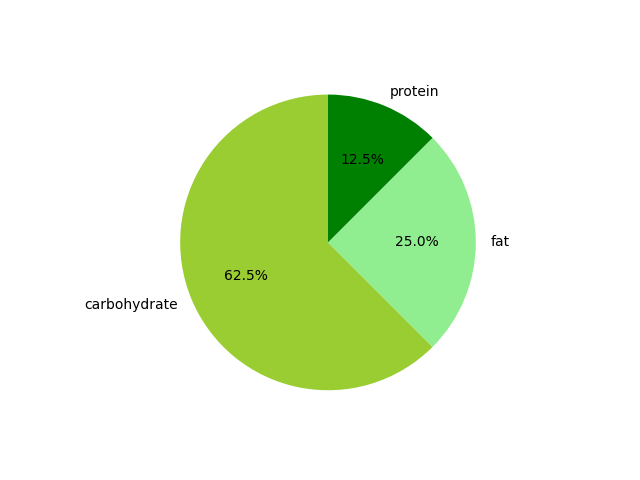
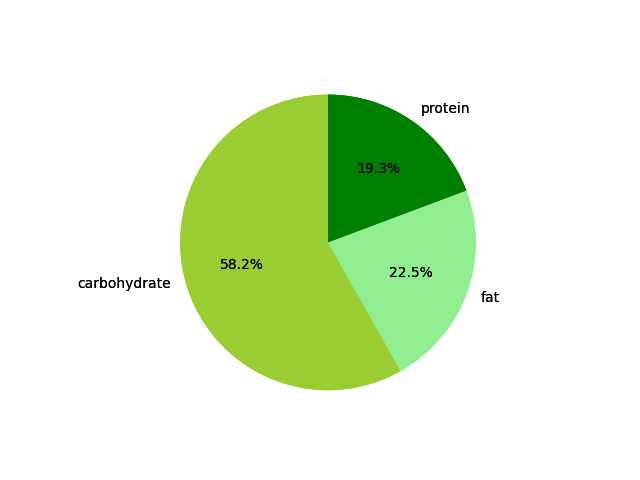
영양분석 이미지 업로드

diff --git a/weekAnalyze.py b/weekAnalyze.py
@@ -2,15 +2,18 @@
 import matplotlib.pyplot as plt
 import numpy as np
 import db
+from io import BytesIO
 
 def drawGraph(tan, dan, ji):
-    labels = ['carbohydrate', 'fat', 'protein']
+    labels = ['carbohydrate', 'protein', 'fat']
     colors = ['yellowgreen', 'lightgreen', 'green']
     ratio = [tan, dan, ji]
 
     plt.pie(ratio, labels=labels, colors=colors, autopct='%1.1f%%', shadow=False, startangle=90)
-    plt.savefig('draw.png', transparent=True)
-    return plt
+    img = BytesIO()
+    plt.savefig(img, transparent=True)
+    img.seek(0)
+    return img
 
 #사용자의 주간 섭취율을 탄, 단, 지 순으로 반환함
 def weekAnalyze(userid):
@@ -29,11 +32,14 @@ def personType(userid):
     dan /= total 
     ji /= total
     style = ''
+    print(tan)
+    print(dan)
+    print(ji)
     if tan > 0.6:
         style += '탄수화물 과다 '
     elif tan < 0.5:
         style += '탄수화물 과소 '
-    if dan > 0.2:
+    if dan > 0.25:
         style += '단백질 과다 '
     elif dan < 0.1:
         style += '단백질 과소 '

diff --git a/recommend.py b/recommend.py
@@ -1,15 +1,26 @@
 #about user
 from flask_restful import Resource, Api
-from flask import request, jsonify
+from flask import request, jsonify, send_file
 import db
 import weekAnalyze as week
 import utils
 
 class AnalyzePerson(Resource):
-    def get(self): #if using post method
+    def get(self): 
         email = str(request.args.get('email'))
         userid = utils.userId(email)
 
         tan, dan, ji = week.weekAnalyze(userid)
         style = week.personType(userid)
-        return {"result": "success", "calbohydrate": tan, "protein": dan, "fat": ji, "style": style}
+        return {"result": "success", "carbohydrate": tan, "protein": dan, "fat": ji, "style": style}
+
+class AnalyzeImage(Resource):
+    def get(self):
+        print('hello')
+        print(request.args)
+        email = str(request.args.get('email'))
+        userid = utils.userId(email)
+        tan, dan, ji = week.weekAnalyze(userid)
+        img = week.drawGraph(tan,dan,ji)
+        return send_file(img, mimetype='image/png')
+

diff --git a/main.py b/main.py
@@ -10,7 +10,7 @@ from diet import AnalyzeDiet, UploadDiet, TotalDiet,TotalDietList
 from login import Login
 from register import Register
 from user import User, UserHcal
-from recommend import AnalyzePerson
+from recommend import AnalyzePerson, AnalyzeImage
 
 app = Flask(__name__)
 CORS(app)
@@ -32,6 +32,7 @@ if __name__ == '__main__':
     api.add_resource(User, '/user')
     api.add_resource(UserHcal, '/userHcal')
     api.add_resource(AnalyzePerson, '/analyzePerson')
+    api.add_resource(AnalyzeImage, '/analyzeImage')
 
 
 
